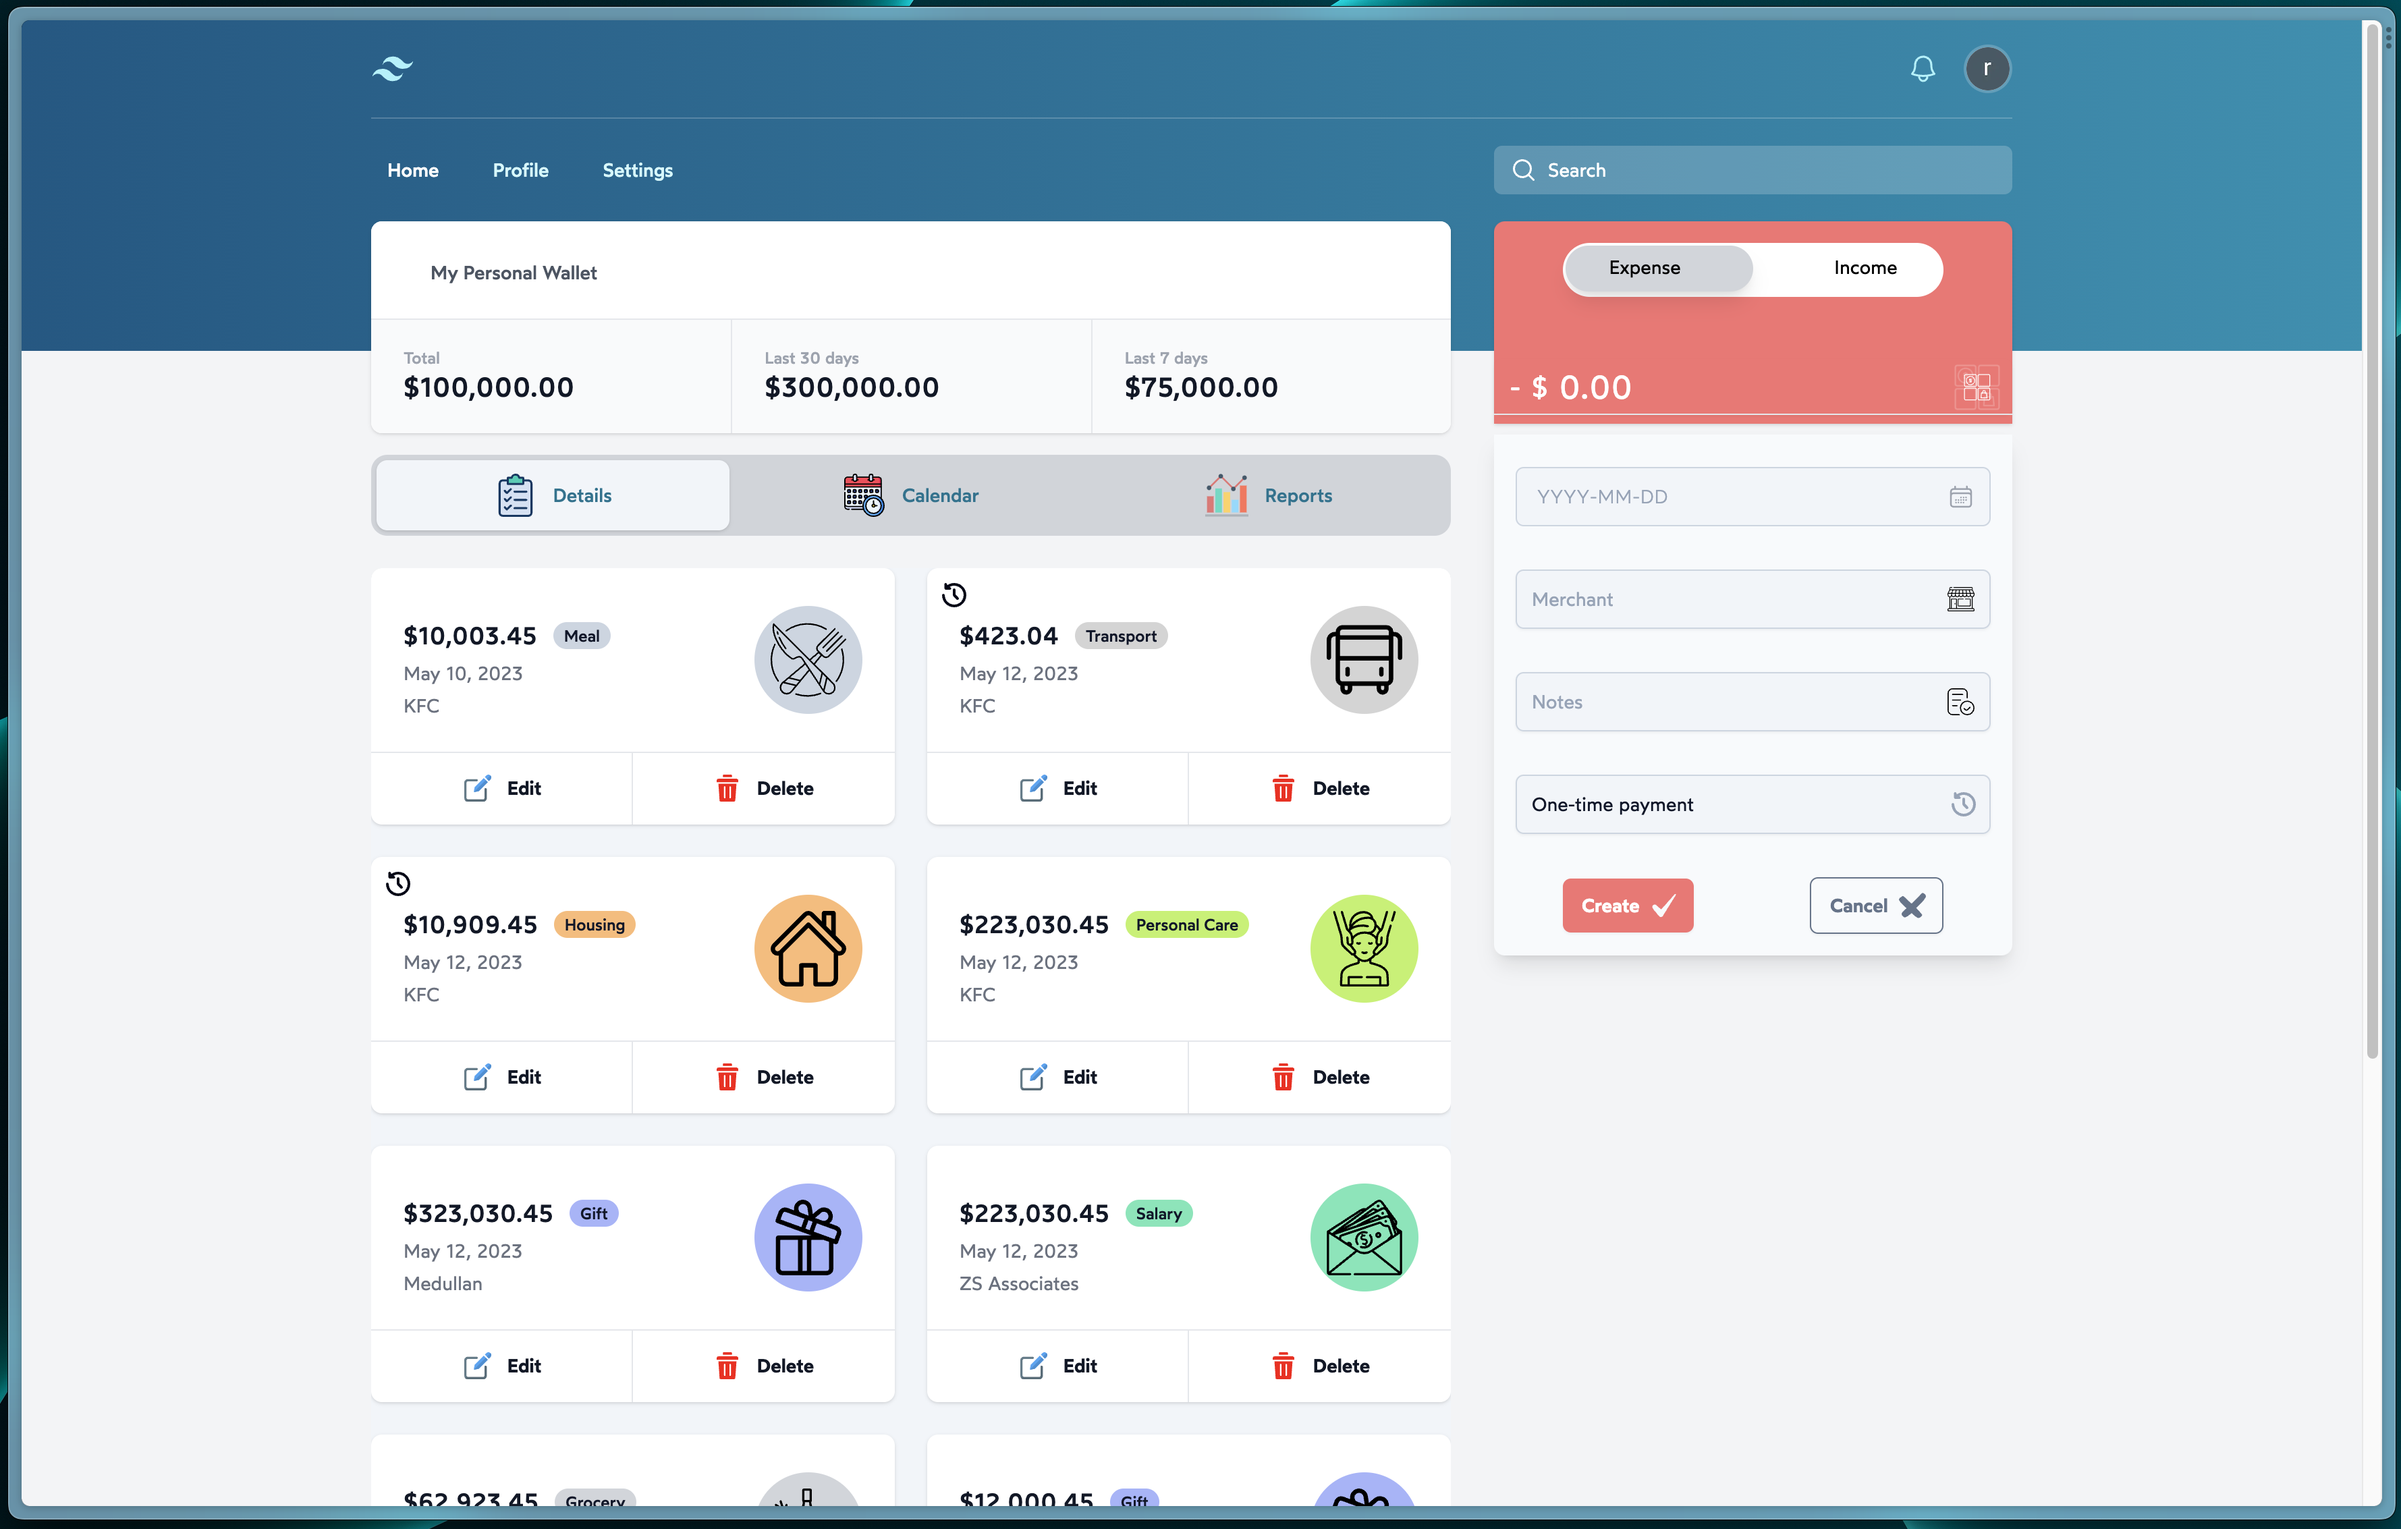
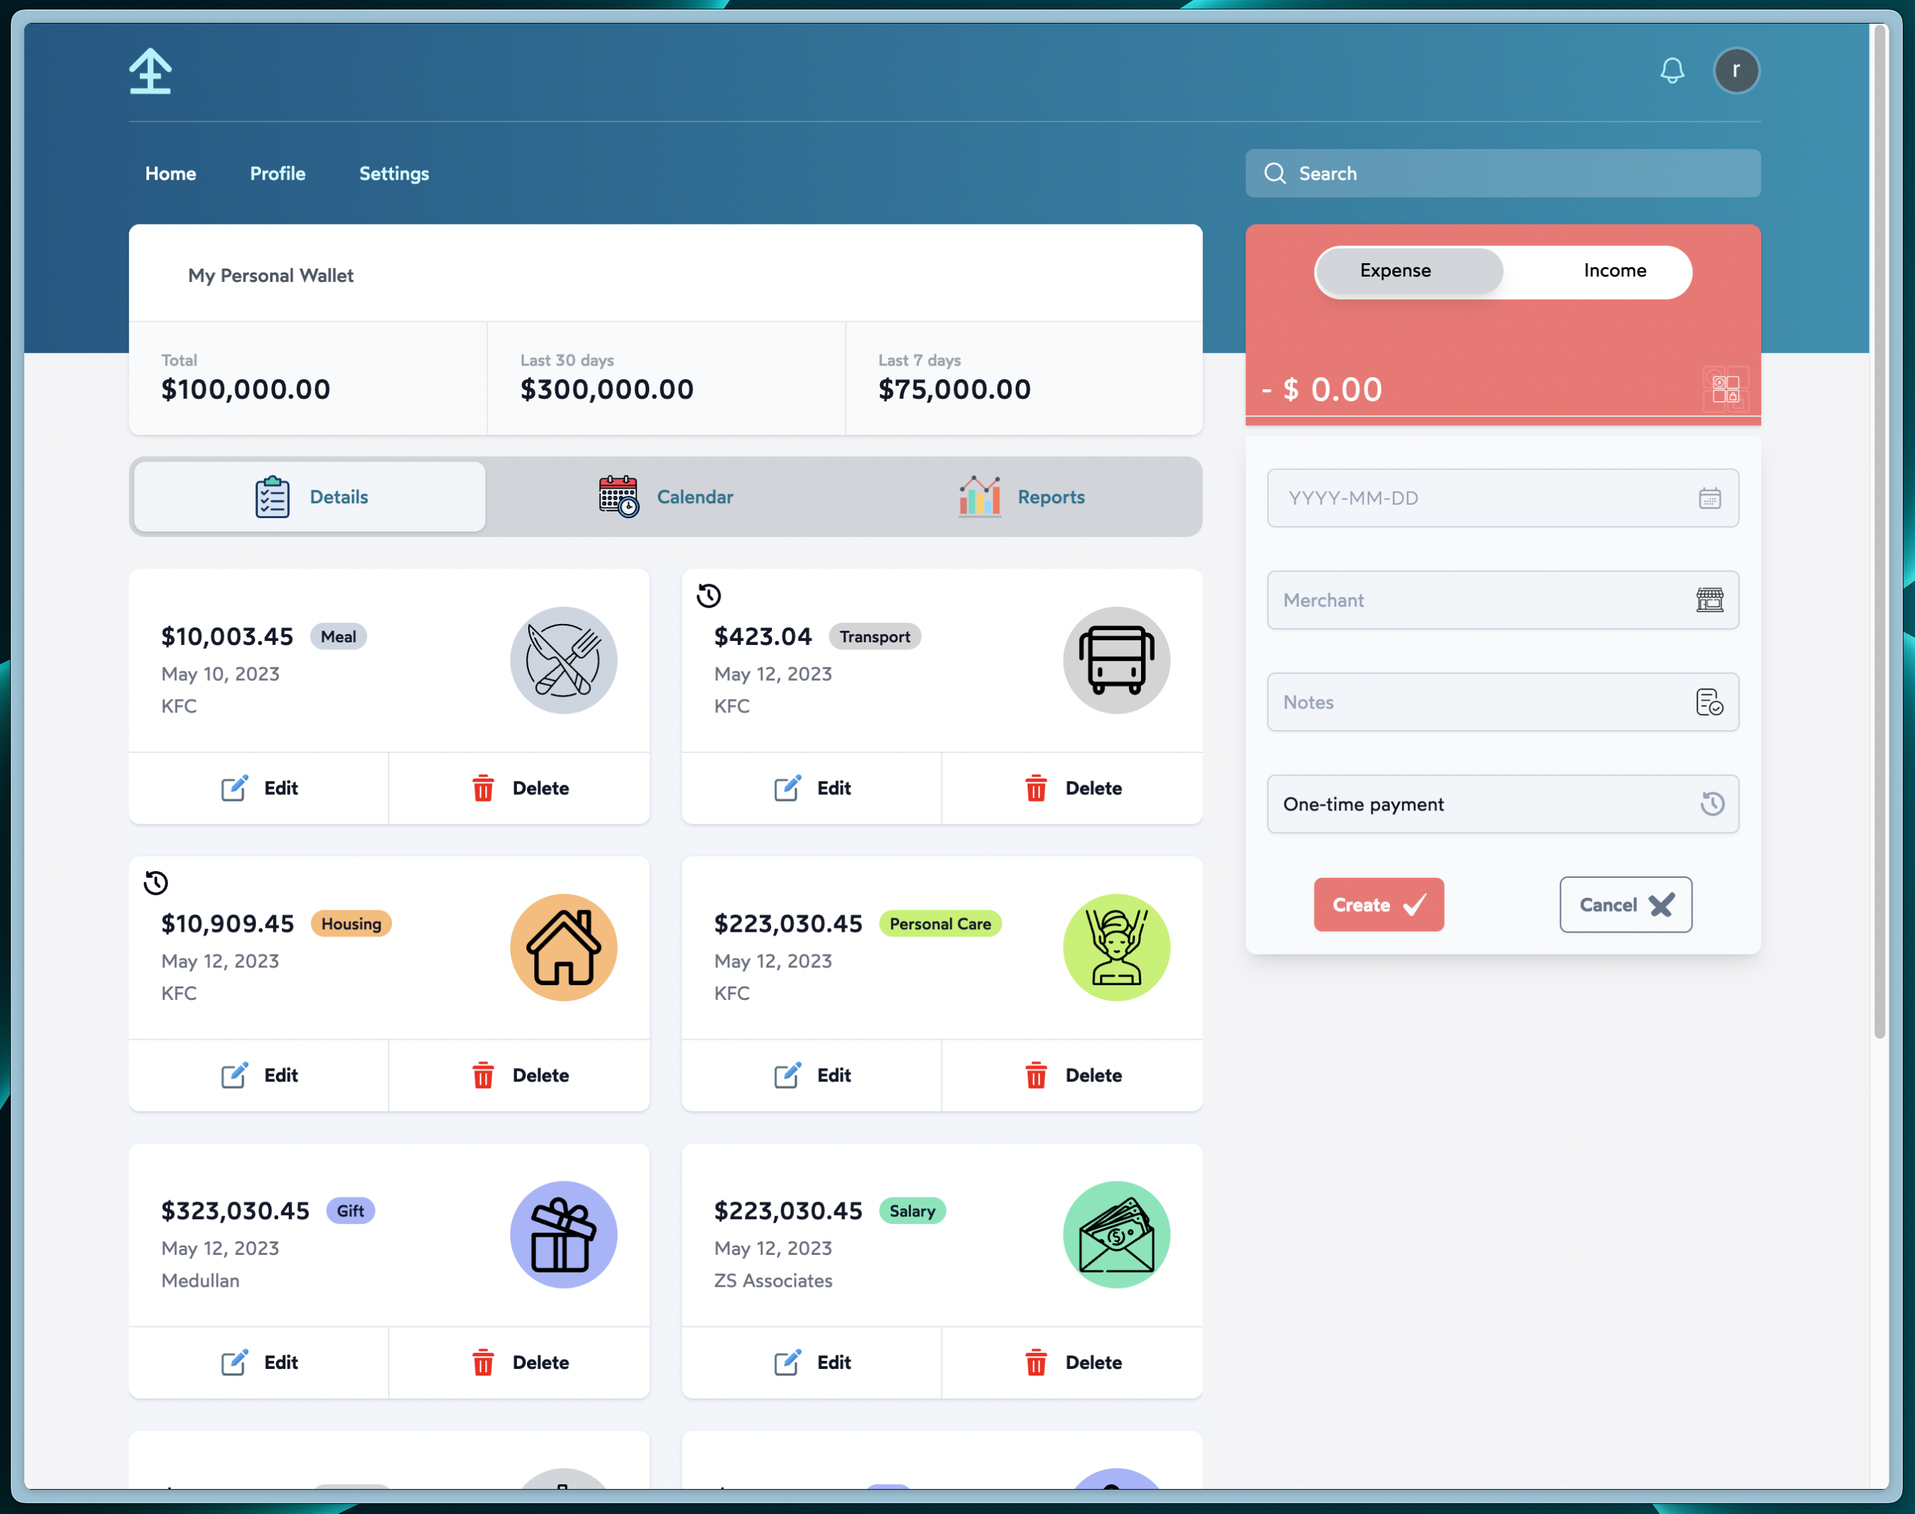
feat: add app screenshot

diff --git a/app/(home)/page.tsx b/app/(home)/page.tsx
@@ -15,6 +15,7 @@ import {
 import { classNames } from "@/app/utils";
 import Image from "next/image";
 import logo from "@/app/assets/images/logo-indigo.svg";
+import screenshot from "@/app/assets/images/screenshot.png";
 import { useSession } from "next-auth/react";
 import Link from "next/link";
 
@@ -319,7 +320,7 @@ export default function Page() {
           <div className="relative overflow-hidden pt-16">
             <div className="mx-auto max-w-7xl px-6 lg:px-8">
               <Image
-                src="https://salient.tailwindui.com/_next/image?url=%2F_next%2Fstatic%2Fmedia%2Fpayroll.517af4e7.png&w=2048&q=75"
+                src={screenshot}
                 alt="App screenshot"
                 className="mb-[-12%] rounded-xl shadow-2xl ring-1 ring-gray-900/10"
                 width={2432}

diff --git a/app/(auth)/signout/page.tsx b/app/(auth)/signout/page.tsx
@@ -1,6 +1,7 @@
 import React from "react";
 import Image from "next/image";
 import AuthOptions from "@/app/(auth)/components/authOptions";
+import logo from "@/app/assets/images/logo-indigo.svg";
 const Page = () => {
   return (
     <>
@@ -8,7 +9,7 @@ const Page = () => {
         <div className="sm:mx-auto sm:w-full sm:max-w-md">
           <Image
             className="mx-auto w-auto h-10"
-            src="https://tailwindui.com/img/logos/mark.svg?color=indigo&shade=600"
+            src={logo}
             alt="Your Company Logo"
             height={40}
             width={40}
